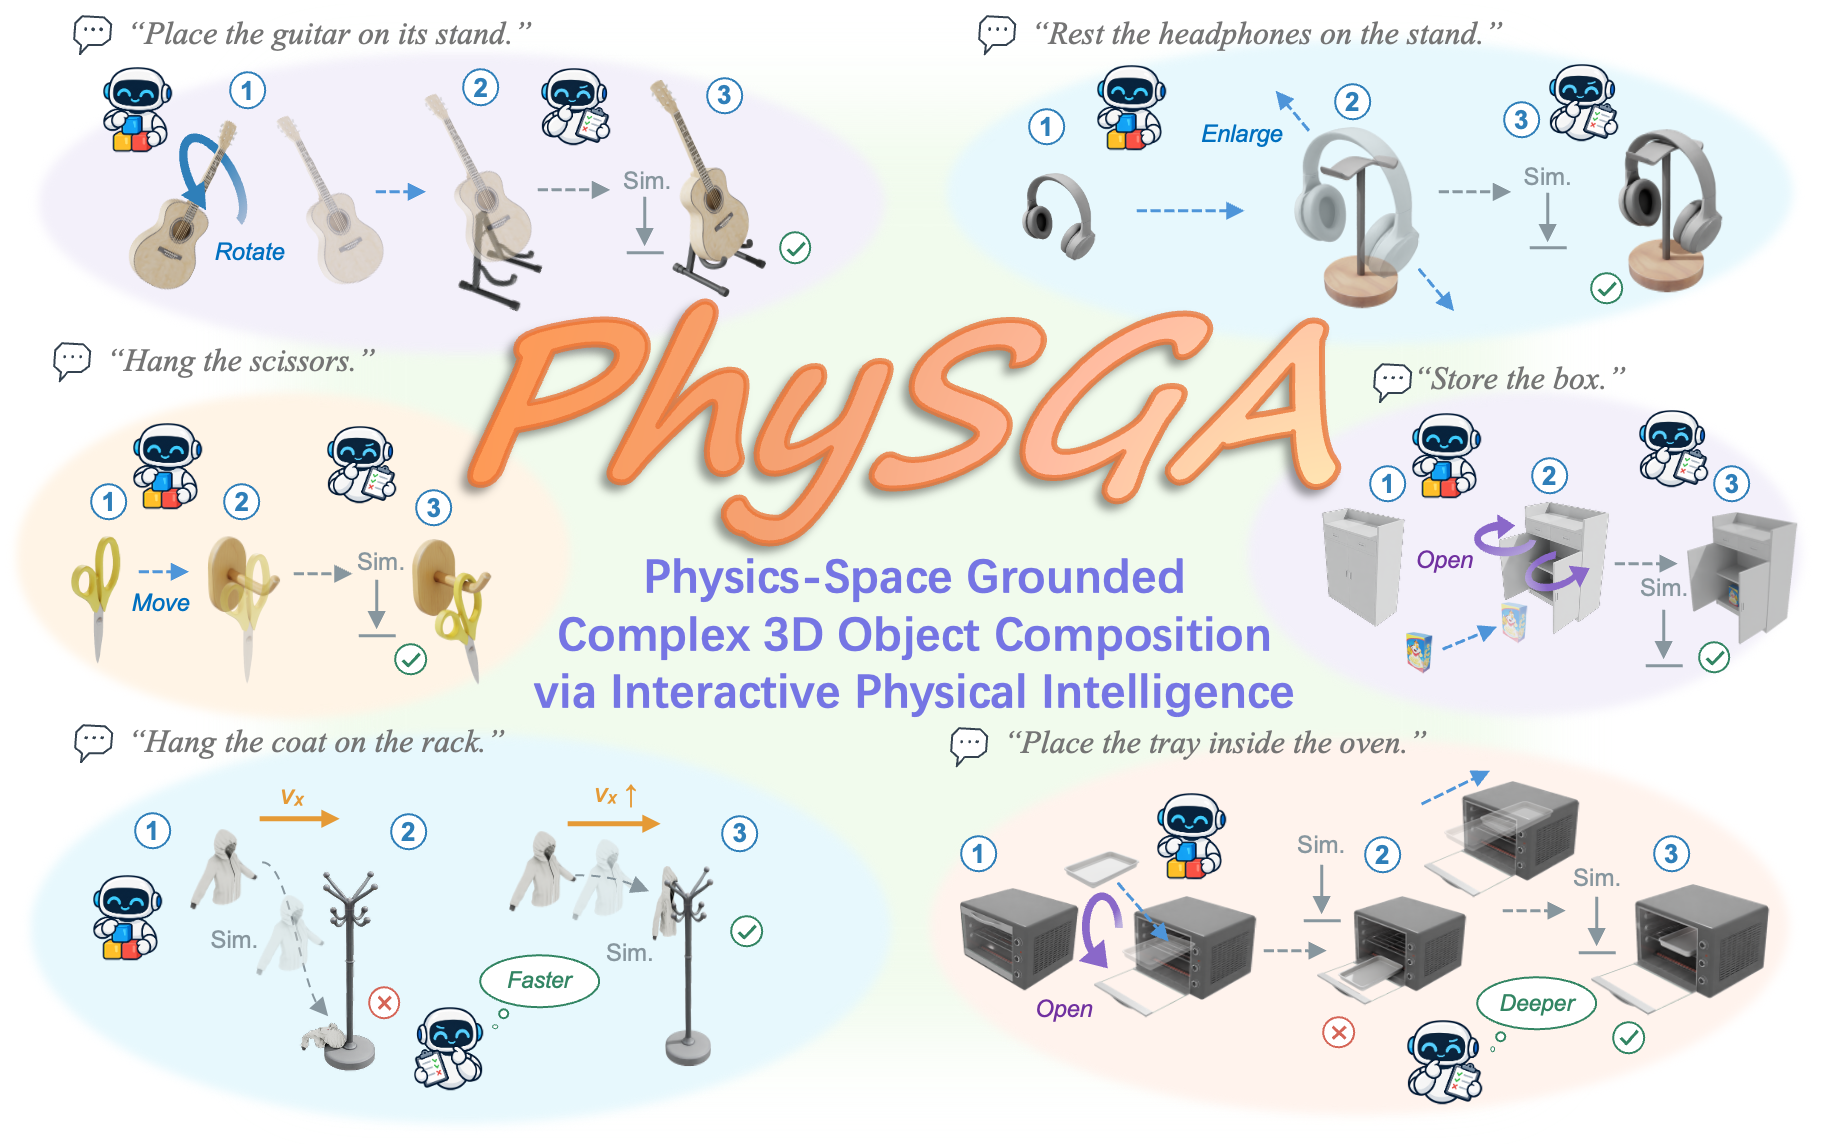
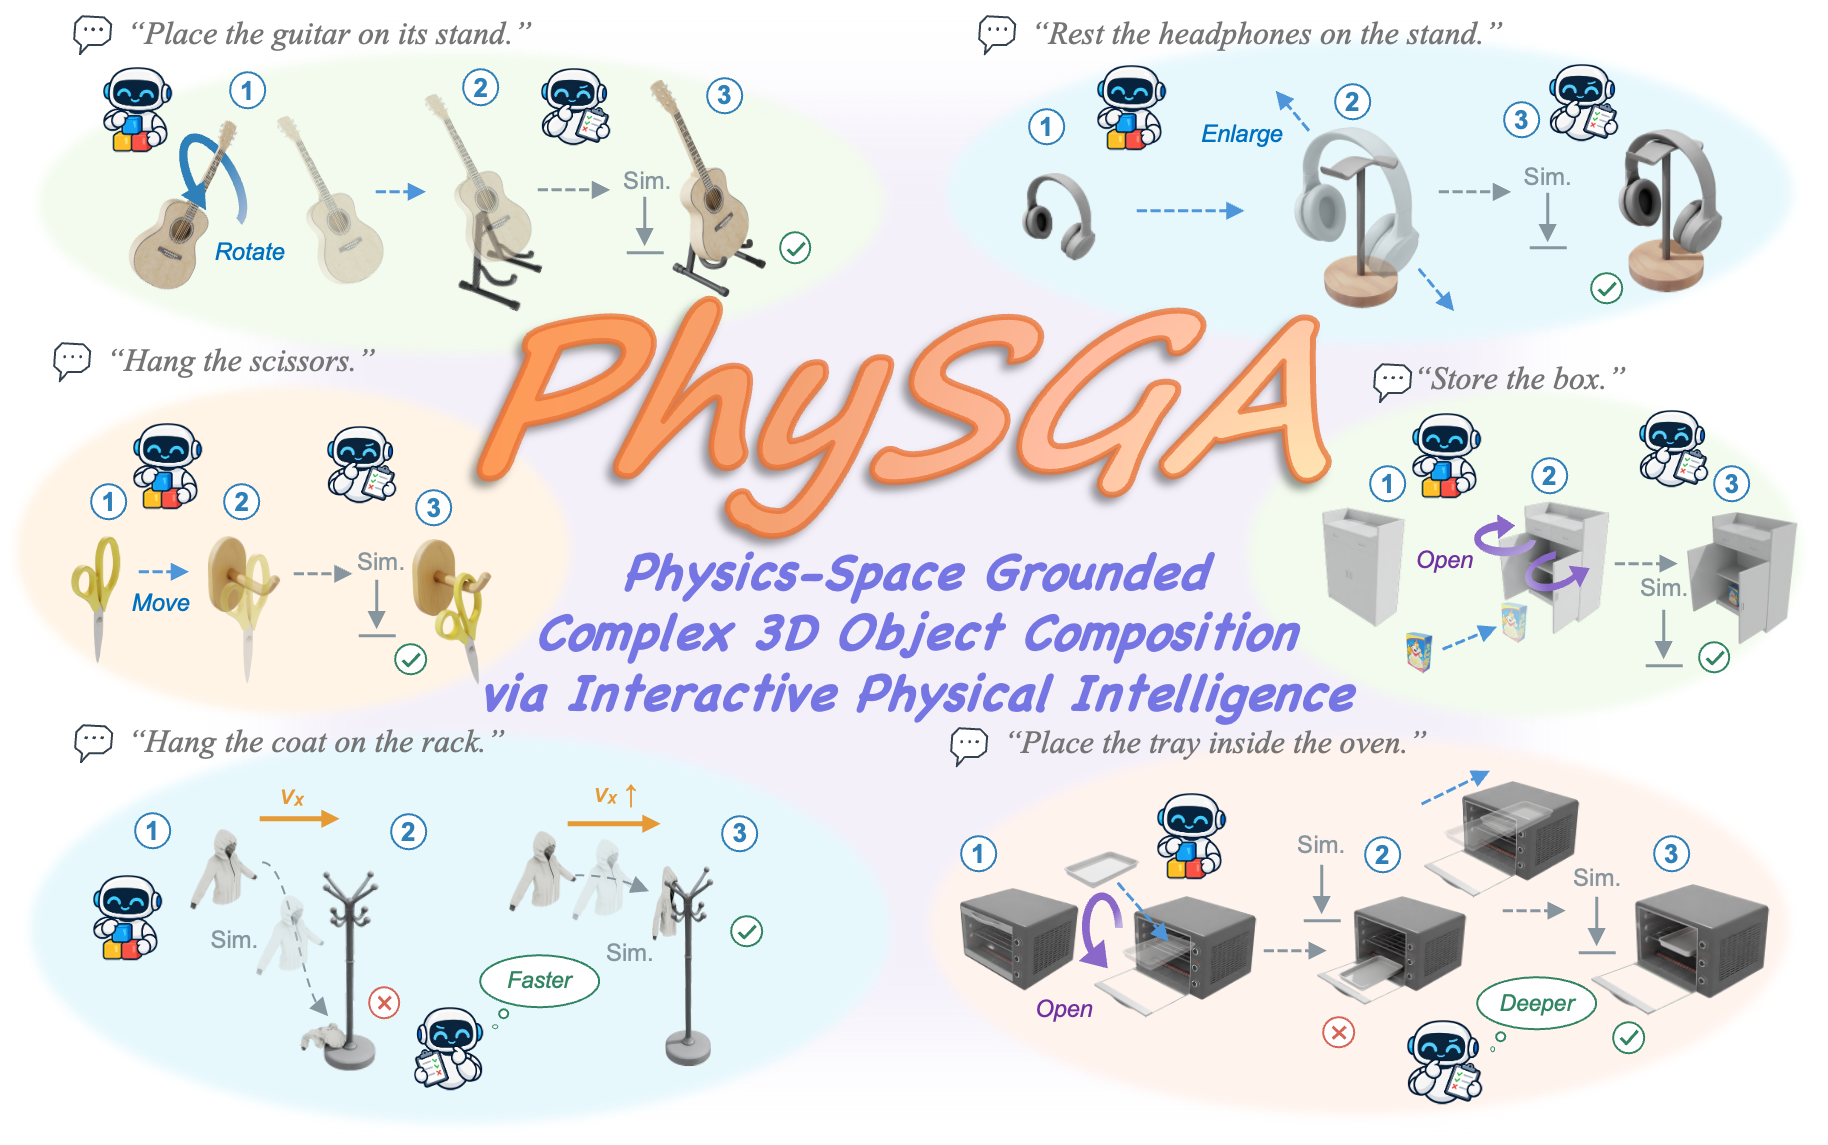
update

Changed region(s): [[0.2495, 0.2445, 0.7484, 0.6419]]

diff --git a/_sass/minimal-light-no-dark-mode.scss b/_sass/minimal-light-no-dark-mode.scss
@@ -8,8 +8,58 @@ body {
 }
 
 .pub-row {
-  display: flex; 
-  align-items: center;}
+  display: flex;
+  align-items: flex-start;
+}
+
+.experience-list {
+  margin: 0 0 1.5rem;
+}
+
+.experience-item {
+  display: grid;
+  grid-template-columns: minmax(0, 1fr) 88px;
+  column-gap: 20px;
+  align-items: start;
+  margin-bottom: 1.5rem;
+}
+
+.experience-content {
+  line-height: 1.55;
+}
+
+.experience-title {
+  color: #222;
+  font-size: 1.02rem;
+  font-weight: 600;
+  line-height: 1.35;
+}
+
+.experience-unit {
+  color: #444;
+  margin-top: 0.15rem;
+}
+
+.experience-meta {
+  color: #666;
+  margin-top: 0.2rem;
+}
+
+.experience-separator {
+  color: #aaa;
+  margin: 0 0.45rem;
+}
+
+.experience-advisor {
+  margin-top: 0.2rem;
+}
+
+.experience-logo {
+  width: 80px;
+  max-height: 80px;
+  object-fit: contain;
+  justify-self: end;
+}
 
 .social-icons a{
   display:inline-block;
@@ -394,8 +444,9 @@ footer {
 @media print, screen and (max-width: 1100px) {
 
   .pub-row {
-  display: flex; 
-  align-items: center;}
+    display: flex;
+    align-items: flex-start;
+  }
 
   div.wrapper {
     width:auto;
@@ -453,8 +504,9 @@ footer {
   }
 
   .pub-row {
-  display: flex; 
-  align-items: center;}
+    display: flex;
+    align-items: flex-start;
+  }
 
   header {
     padding:0;
@@ -472,8 +524,20 @@ footer {
 @media print, screen and (max-width: 480px) {
 
   .pub-row {
-    display: block; 
-    align-items: center;}
+    display: block;
+  }
+
+  .experience-item {
+    grid-template-columns: minmax(0, 1fr) 62px;
+    column-gap: 12px;
+    align-items: start;
+    margin-bottom: 1.25rem;
+  }
+
+  .experience-logo {
+    width: 58px;
+    max-height: 58px;
+  }
 
   body {
     padding:15px;
@@ -528,4 +592,3 @@ footer {
   display:none;
   font-family: monospace;
 }
-

diff --git a/assets/css/publications-no-dark-mode.css b/assets/css/publications-no-dark-mode.css
@@ -104,7 +104,7 @@ blockquote {
 }
 
 .publications ol.bibliography li .abbr {
-  height: 8rem;
+  height: auto;
   margin-bottom: 0.5rem;
 }
 
@@ -209,12 +209,26 @@ blockquote {
 }
 
 .publications ol.bibliography li .teaser {
+  display: block;
   border-radius: 8px;
   box-shadow: 3px 3px 6px #888;
-  height: 123px;
+  height: auto;
   width: 270px;
   margin-top: 5px;
   margin-left: 5px;
   margin-bottom: 5px;
-  object-fit: cover;
+  object-fit: contain;
+}
+
+@media print, screen and (max-width: 480px) {
+  .publications ol.bibliography li .abbr {
+    height: auto;
+    margin-bottom: 1rem;
+  }
+
+  .publications ol.bibliography li .teaser {
+    width: 100% !important;
+    height: auto !important;
+    margin: 0;
+  }
 }

diff --git a/assets/css/font.css b/assets/css/font.css
@@ -4,7 +4,7 @@
 body {
   background-color: #fff;
   padding:0px;
-  font: 16.0px/1.5 Crimson Pro, serif; 
+  font: 17px/1.5 Crimson Pro, serif; 
   color:#595959;
   font-weight:400;
   margin:0

diff --git a/_includes/education_experience.md b/_includes/education_experience.md
@@ -1,0 +1,19 @@
+<h2>Education &amp; Experience</h2>
+
+<div class="experience-list">
+{% for item in site.data.education_experience.main %}
+  <div class="experience-item">
+    <div class="experience-content">
+      <div class="experience-title">{{ item.title }}</div>
+      <div class="experience-unit">{{ item.unit }}</div>
+      <div class="experience-meta">
+        <span>{{ item.period }}</span><span class="experience-separator">|</span>{% if item.institution_url %}<a href="{{ item.institution_url }}">{{ item.institution }}</a>{% else %}<span>{{ item.institution }}</span>{% endif %}
+      </div>
+      {% if item.advisor %}
+      <div class="experience-advisor">Advisor: Prof. <a href="{{ item.advisor.url }}">{{ item.advisor.name }}</a>.</div>
+      {% endif %}
+    </div>
+    <img class="experience-logo" src="{{ item.logo }}" alt="{{ item.institution }} logo">
+  </div>
+{% endfor %}
+</div>

diff --git a/index.md b/index.md
@@ -10,15 +10,7 @@ I'm a second-year Master's student in Artificial Intelligence at the [Department
 
 <!-- ## Selected Publications -->
 
-## Experiences
-
-- 2025.09 - Present: M.S. Student in Artificial Intelligence, Department of Automation, Tsinghua University.<br>
-  Advisor: Prof. [Yueqi Duan](https://duanyueqi.github.io).
-
-- 2025.06 - 2025.09: Research Assistant, SpeechLab, School of Data Science (SDS), The Chinese University of Hong Kong, Shenzhen (CUHK-Shenzhen).<br>
-  Advisor: Prof. [Zhizheng Wu](https://drwuz.com/).
-
-- 2021.09 - 2025.06: B.S. Student in Intelligent Science and Technology, School of ISE, Sun Yat-sen University.
+{% include education_experience.md %}
 
 <!-- ## Research Interests
 - **3D Computer Vision**: 3D Reconstruction, Scene Understanding
